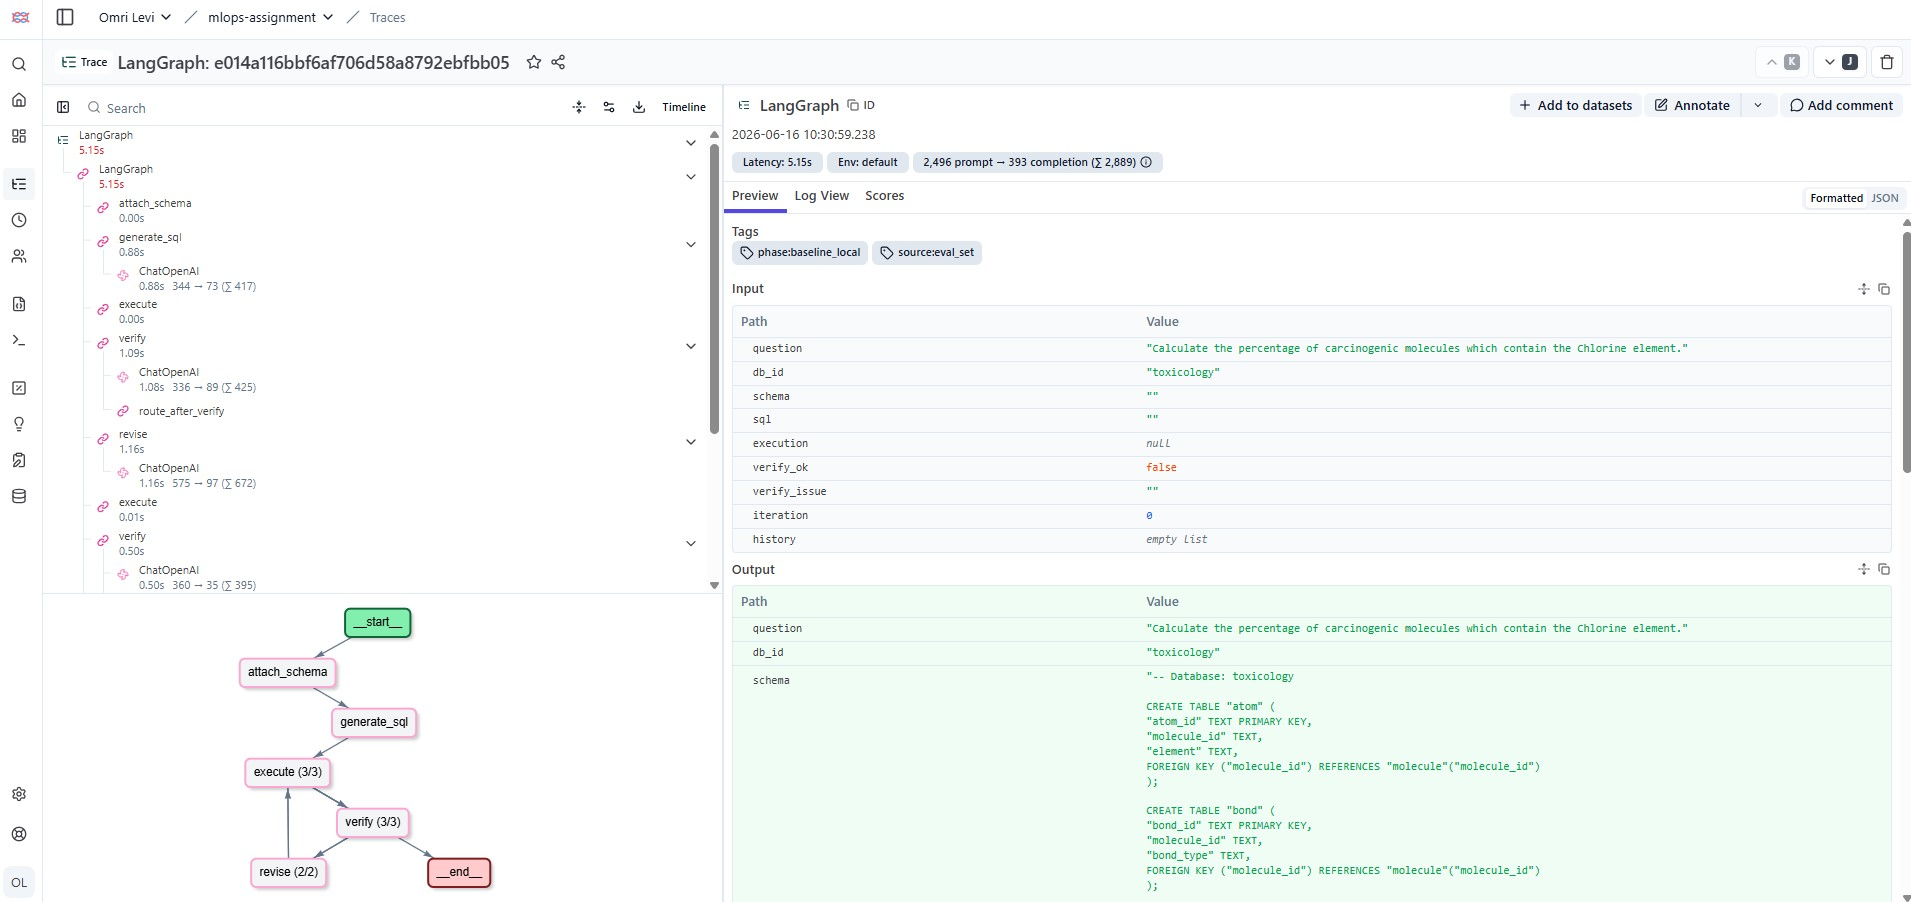
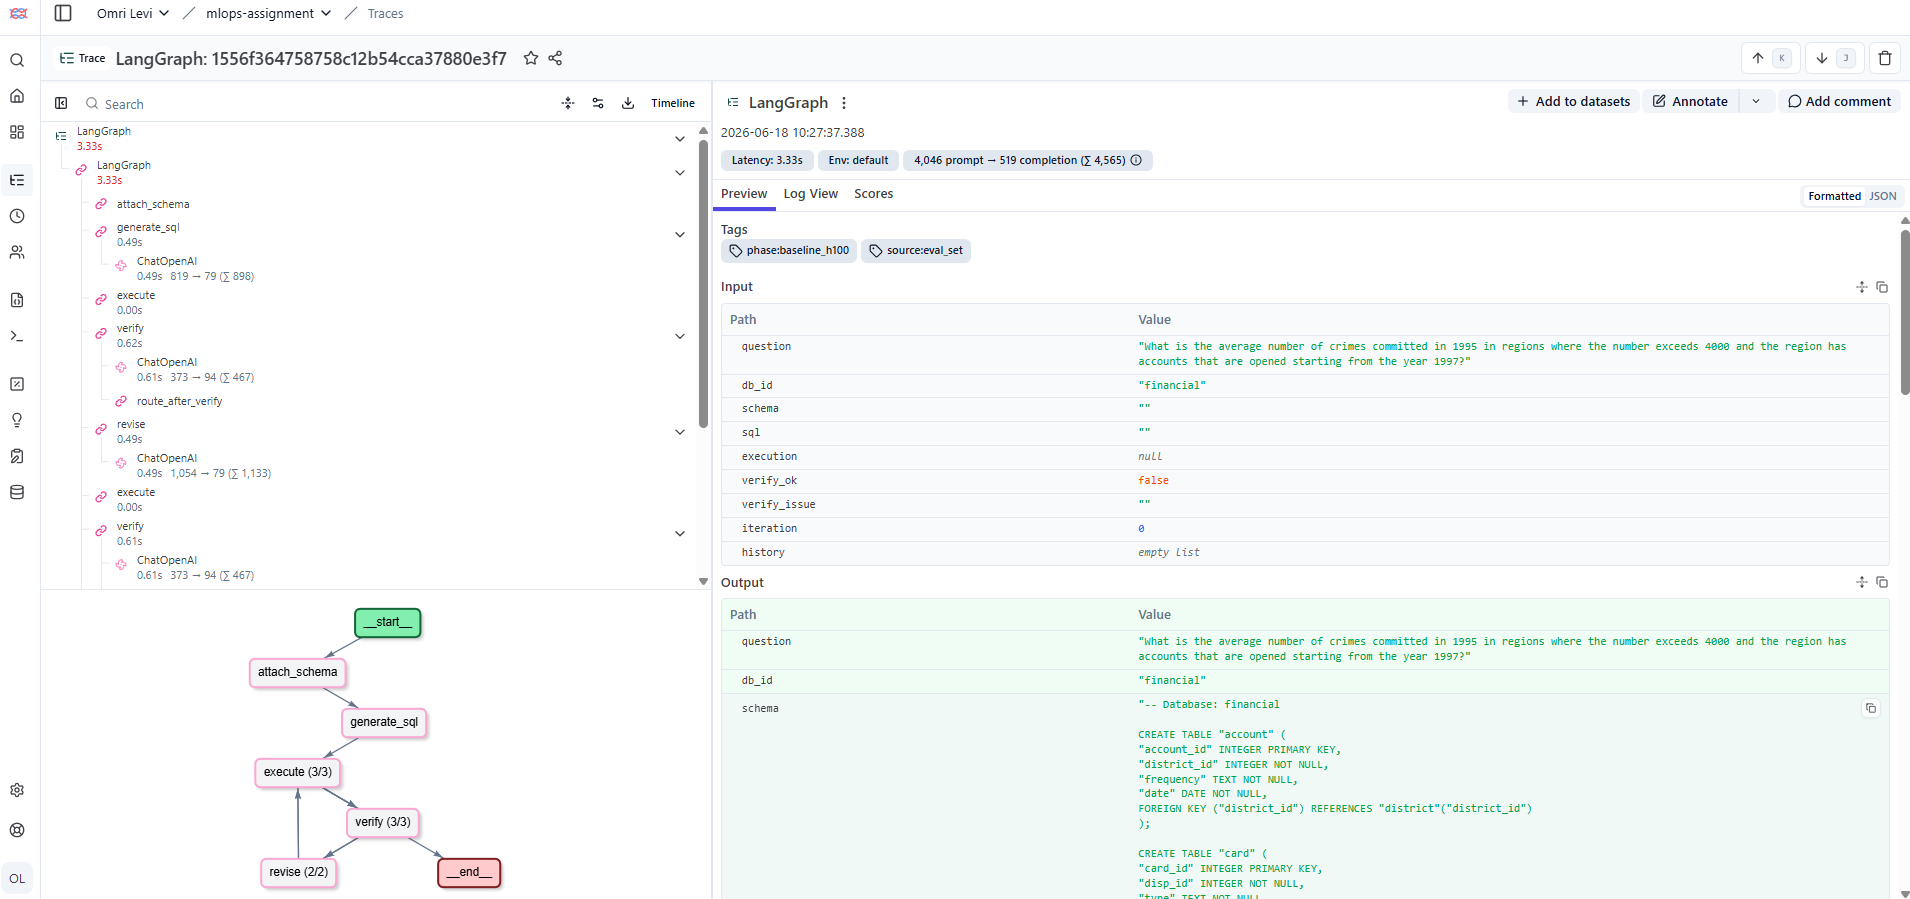
update report + add all relevant results and screenshots

diff --git a/report.md b/report.md
@@ -2,29 +2,26 @@
 
 ---
 
-## Phase 1 — Serving Configuration
+## Phase 1 - Serving Configuration
 
 **Local development:** Nebius Token Factory API (OpenAI-compatible endpoint)
 using `Qwen/Qwen3-30B-A3B-Instruct-2507` as a hosted backend.
+
 **Production target:** vLLM on 1× H100 80GB.
 
-### vLLM flags (H100 configuration — `scripts/start_vllm.sh`)
+### Initial vLLM flags (H100 configuration — `scripts/start_vllm.sh`)
 
-| Flag | Value | Reason |
+| Flag | Value | Reason(s) |
 |---|---|---|
-| `--dtype` | `bfloat16` | H100 native format; no quality loss vs fp32 for SQL generation |
-| `--max-model-len` | `8192` | Prompts are 1.5–3K tokens (schema + question); capping context frees KV cache headroom for concurrency |
-| `--gpu-memory-utilization` | `0.92` | Leaves ~6GB headroom for model weights; gives KV cache maximum VRAM |
-| `--max-num-seqs` | `64` | Qwen3-30B-A3B is MoE (~3B active params per forward pass); compute per token is low so higher concurrency is affordable vs a dense 30B |
-| `--enable-prefix-caching` | on | Every query against the same DB shares an identical schema preamble — avoids re-prefilling those tokens on each request |
-| `--enable-chunked-prefill` | on | Prevents long schema prefills from blocking decode steps of concurrent requests |
-| `--trust-remote-code` | on | Required for Qwen3 MoE architecture |
-| `--disable-log-requests` | on | Removes per-request stdout overhead under load |
+| `--dtype` | `bfloat16` | Model weights are released in bfloat16. Loading in the same dtype avoids any precision conversion. In addition, H100 has native bfloat16 tensor cores. Using fp32 would double weight memory with no quality benefit since the weights were never fp32 to begin with. |
+| `--max-model-len` | `8192` | This flag rules the model context length (prompts + output). We assume (by experiment) that our prompt + output will not exceed this length. Capping context frees KV cache headroom for concurrency. |
+| `--gpu-memory-utilization` | `0.92` | Leaves ~6GB headroom for model weights; gives KV cache maximum VRAM.<br>Higher value would give more KV cache blocks and therefore higher throughput. Lower value would give less KV cache blocks which reduces throughput. |
+| `--max-num-seqs` | `64` | Initial value of 64 chosen as a conservative starting point for H100; MoE architecture reduces per-token compute cost, suggesting higher concurrency is viable. If KV cache is not fully utilized, this value can be increased. |
+| `--enable-prefix-caching` | on | Every query against the same DB shares an identical schema preamble, therefore avoid re-prefilling those tokens on each request. Should drop TTFT since the schema is already cached. |
+| `--enable-chunked-prefill` | on | Prevents long schema prefills from blocking decode steps of concurrent requests. Should prevent spikes in TPOT for all concurrent requests whenever a new one arrives. TTFT can be slightly higher. |
+| `--trust-remote-code` | on | Required for Qwen3 from HuggingFace |
+| `--disable-log-requests` | on | Removes per-request stdout overhead under load. Otherwise adds latency and CPU overhead. |
 
-**Note:** Flags were chosen based on workload analysis (MoE architecture,
-1.5–3K token prompts, short structured outputs, 2–3 sequential LLM calls per
-request) but could not be validated locally without GPU hardware. They will be
-exercised and iterated on during Phase 6 load testing on the real H100 endpoint.
 
 ### Manual query results (5 questions from `evals/eval_set.jsonl`)
 
@@ -33,11 +30,11 @@ statements directly from the SQLite files.
 
 | # | Question | DB | Outcome | Notes |
 |---|---|---|---|---|
-| 1 | Australian GP coordinates | formula_1 | ✅ Near-correct | Missing `DISTINCT` → 11 duplicate rows instead of 1 |
-| 2 | Ajax superpowers | superhero | ✅ Correct | 5 rows returned, matches gold |
-| 3 | Top 5 schools by enrollment | california_schools | ✅ Correct | Correct JOIN and ORDER BY |
-| 4 | Average crimes 1995 | financial | ❌ Wrong | Used `A14` instead of `A15` → returned NULL |
-| 5 | Male clients in Praha | financial | ❌ Wrong | Used lowercase `'m'` instead of `'M'` → returned 0 instead of 339 |
+| 1 | Australian GP coordinates | formula_1 | Near-correct | Missing `DISTINCT` → 11 duplicate rows instead of 1 |
+| 2 | Ajax superpowers | superhero | Correct | 5 rows returned, matches gold |
+| 3 | Top 5 schools by enrollment | california_schools | Correct | Correct JOIN and ORDER BY |
+| 4 | Average crimes 1995 | financial | Wrong | Used `A14` instead of `A15` → returned NULL |
+| 5 | Male clients in Praha | financial | Wrong | Used lowercase `'m'` instead of `'M'` → returned 0 instead of 339 |
 
 **Key observations:**
 
@@ -50,80 +47,177 @@ worth noting:
   0 when rows clearly exist. Zero rows on a counting question is a strong signal
   for the verifier to trigger a revise.
 - **Duplicate rows (Q1):** missing `DISTINCT` returns 11 identical coordinate
-  pairs. Also detectable — 11 rows all identical is suspicious for a coordinates
+  pairs. Also detectable since 11 rows all identical is suspicious for a coordinates
   lookup.
 
 All three failure modes are detectable signals the verify node can act on,
 which directly motivates the agent loop in Phase 3.
 
-### Screenshot - TBD
+### Screenshot - vllm manual query example
+![vllm_manual_query.png](screenshots/vllm_manual_query.png)
+
 
 ---
 
 ## Phase 2: Observability Dashboard
 
-The dashboard is organized around three questions a person on call needs to answer immediately:
-**Is the system slow? Is it keeping up? Is memory OK?**
-
----
-
-### Metric types and PromQL patterns
-
-vLLM exposes three metric types, each requiring a different PromQL treatment:
-
-- **Gauge**: a live snapshot value (e.g. queue depth). Read directly, no transformation.
-- **Counter**: monotonically increasing total (e.g. requests served). Wrap in `rate(metric[1m])` to get a per-second rate.
-- **Histogram**: records a distribution across buckets (e.g. latency). Use `histogram_quantile(0.95, rate(metric_bucket[5m]))` to get a percentile. Latency panels use a longer `[5m]` window than throughput panels (`[1m]`) because percentile estimates need more samples to be statistically stable.
+The dashboard is organized around three questions a person on call needs to answer immediately:<br>
+**1. Is the system slow?**<br>
+**2. Is it keeping up?** <br>
+**3. Is memory OK?**<br>
 
 ---
 
 ### Why these specific metrics
 
-#### Latency
+#### Latency (or "Is it slow?")
 
-Three panels: E2E latency (P50/P95/P99), TTFT, TPOT.
+Three panels: E2E latency (P50/P95/P99), TTFT, TPOT. E2E here is **per-LLM-call** as seen by vLLM, not full agent latency - the SLO spans 2–3 of these calls sequentially.
 
-E2E latency is the SLO metric. TTFT (time to first token) and TPOT (time per output token) decompose *where* that time goes: 
 - E2E ≈ TTFT + (output_tokens × TPOT). 
-- TTFT measures prefill cost and queue wait. 
-- TPOT measures decode speed.
+- TTFT (time to first token) captures prefill cost and queue wait. 
+- TPOT (time per output token) captures decode speed. 
 
-Together they answer not just "is it slow" but "slow *where*", which is what makes the dashboard useful for diagnosis, not just alerting.
+When E2E is high: 
+- if TTFT high → requests are queuing or prefill is slow, check queue depth. 
+- if TPOT high → decode batch is too large, check requests running; 
+- if P99 spikes with P95 fine → check preemption rate.
 
-#### Throughput
+#### Throughput (or "Is it keeping up?")
 
 Four panels: requests running, generated tokens/sec, request throughput (req/s), queue depth.
 
-- Queue depth (`num_requests_waiting`) is the most actionable single metric: if it grows, the system is overloaded, full stop. 
-- Request throughput gives the achieved RPS to compare against the load test target.
 - Requests running and generated tokens/sec give context on what the system is actually doing at that moment.
+- Queue depth (`num_requests_waiting`) is the most actionable metric: if it grows, arrival rate exceeds serving rate. Check whether the ceiling is compute (TPOT rising) or the scheduler cap (`--max-num-seqs`). 
+- Request throughput gives achieved RPS to compare against the load test target.
 
-#### KV Cache
+#### KV Cache (or "Is memory OK?")
 
 Two panels: GPU KV cache usage (%), preemption rate.
 
-- KV cache usage shows headroom or how close the system is to the ceiling. 
-- Preemption rate is the alarm: it becomes nonzero only when the cache already ran out and vLLM is paying the cost by evicting and recomputing sequences. Each preemption shows up as a P99 spike in the E2E latency panel, which is why these two sections are connected.
+- KV cache usage shows available headroom. If cache approaches 100%: reduce `--max-num-seqs` or `--max-model-len`.
+- Preemption rate is the alarm: nonzero means the cache ran out and vLLM is evicting and recomputing sequences, which shows up directly as P99 spikes in the latency panel.
 
 ---
 
-### Reading the dashboards: Debugging workflow
+### Screenshot - grafana serving
 
-Start at the top of the dashboard and go down.
-
-**E2E latency is high →**
-- TTFT high, TPOT normal → bottleneck is before decoding: requests are queuing or prefill is slow. Check queue depth.
-- TPOT high, TTFT normal → bottleneck is during decoding: too many sequences decoded simultaneously, memory bandwidth saturated. Check requests running.
-- P95 fine but P99 spikes intermittently → check preemption rate: cache evictions cause occasional stalls.
-
-**Queue depth is growing →**
-Arrival rate exceeds serving rate. Either the model is too slow per request (TPOT) or the concurrency limit (`--max-num-seqs`) is the ceiling. Check KV cache: if it's near 100%, that's what's preventing vLLM from starting new requests.
-
-**KV cache near 100% or preemptions nonzero →**
-Cache pressure. Fix: reduce `--max-num-seqs` (fewer concurrent sequences) or reduce `--max-model-len` (smaller KV blocks per token). Preemptions are more urgent than just queuing because they waste GPU compute and cause latency spikes.
+Full dashboard reacting to a burst of requests on H100.
+![grafana_serving.png](screenshots/grafana_serving.png)
 
 ---
 
-### Screenshots - TBD
+## Phase 3 — Agent
 
-- `screenshots/grafana_serving.png` — full dashboard reacting to a burst of requests *(H100)*
+The agent implements a generate → execute → verify → (revise) loop using LangGraph. The graph has four nodes:
+
+- **generate_sql**: given the schema and question, produces an initial SQL query (vLLM call #1)
+- **execute**: runs the SQL against the SQLite DB and returns rows or an error (provided)
+- **verify**: given the question, SQL, and result, decides whether the result plausibly answers the question and if not, describes the specific problem (vLLM call #2)
+- **revise**: given the identified problem, the original SQL, the result, and the schema, surgically fixes the failing fragment (vLLM call #3, only when verify returns ok=false)
+
+The loop is capped at 3 total iterations. `route_after_verify` returns `"revise"` when verify outputs `ok=false` and the iteration count is below the cap, and `"end"` otherwise.
+
+By setting max iterations to 3, the maximum number of vLLM calls per question can be 6 (1: generate + verify, 2: revise + verify, 3: revise + verify).
+
+---
+
+## Phase 4 — Agent Observability
+
+Langfuse wired via `langfuse.langchain.CallbackHandler` passed as a callback on each `graph.invoke`. Each agent run produces a root trace with nested spans for `generate_sql`, `verify`, and `revise` (when triggered), each showing prompt, response, latency, and token counts. Traces tagged with `phase` and `source` keys for filtering by experiment.
+
+#### Screenshots - langfuse
+- langfuse trace: shows a single agent run with a revise iteration triggered by verify<br>
+![langfuse_trace.png](screenshots/langfuse_trace.png) 
+- langfuse tags: shows filtering by `phase=baseline` and `source=agent` to analyze only the agent runs from the baseline experiment.
+![langfuse_tags.png](screenshots/langfuse_tags.png)
+
+---
+
+## Phase 5 — Evals
+
+Execution accuracy: compare canonicalized row sets (sorted, stringified) from agent SQL vs gold SQL. Per-iteration pass rate uses carry-forward, i.e. if agent stopped at iteration j, that result fills all later slots.
+
+### Baseline results (`results/eval_baseline.json`)
+
+| Metric | Value |
+|---|---|
+| iter_1 pass rate | 26.67% |
+| iter_2 pass rate | 30.00% |
+| iter_3 pass rate (overall) | **30.00%** |
+| Revise triggered | 11/30 (36.67%) |
+| Avg iterations | 1.63 |
+
+The revise loop recovered 3.33% (iter_1 26.67% → iter_3 30%), meaning the loop is doing real work.
+
+#### Screenshot - grafana dashboard during baseline eval
+![grafana_eval_run.png](screenshots/grafana_eval_run.png)
+
+---
+
+## Phase 6 — SLO
+
+**Target: P95 end-to-end agent latency < 5 seconds at 10+ RPS sustained over 5 minutes.**
+
+### Iteration log
+
+| Version | Changed | <div style="width:200px">Saw<br>(After change)</div> | Hypothesized<br>(why? + what to change?) | Targeted metric | E2E followed? | Keep the change? |
+|---|---|---|---|---|---|---|
+| **V0** baseline | — | **Timeout rate: 54% ❌**<br>single call:<br>E2E p95: ~3.6s <br>TTFT p95: 215ms<br>TPOT p95: 55ms<br>Requests running: up to 25<br>Queue: 0<br>KV cache: 0-30% | Server capacity is limited, vLLM is idle, need to increase number of workers. | Reduce timeouts rate to ~0% | 116s |  |
+| **V1** | workers 1→32 | Timeouts rate - 0.8% ✅<br>single call:<br>E2E p95: ~8.5s ❌<br>TTFT p95: ~4.8s ❌<br>TPOT p95: 70ms<br>Requests running: up to 64<br>**Queue: 0→120→0** ❌<br>KV cache: 0-48% | Queue is now the bottleneck (requests waiting). Reducing `max-model-len` should make more space to fit more requests. | Reduce queue depth (requests waitings). | ✅ 116→88s | Yes |
+| **V2** | max-model-len 8192→4096 | single call:<br>E2E p95: ~5.5s ⬇️<br>TTFT p95: ~2.4s ⬇️<br>TPOT p95: 70ms<br>Requests running: up to 64<br>Queue: 0→66→0 ⬇️<br>KV cache: 0-25%⬇️ | Freeing KV blocks improves throughput as well as TTFT (cut by half). TTFT is still high, trying to quantize the model to 8-bit could help to make faster calculations -> prefill and decode. | Cut TTFT by half | ✅ 88s→34s | Yes |
+| **V3** | +fp8 quantization | single call:<br>E2E p95: 8-10s ⬆️❌<br>TTFT p95: ~2.5-5s ⬆️❌<br>TPOT p95: 70ms<br>Requests running: up to 64<br>**Queue: 0→111→0**⬆️ ❌<br>KV cache: 0-48%⬆️ | TTFT worsened to 5s, queue 66→111, we didn't address the correct issue ❌<br>The right flag to decrease the queue depth which will lead to lower TTFT is increasing `max-num-seqs` | Reduce queue depth to 0 (no waiting requests) | ❌ 34s→44.5s | No |
+| **V4** | max-num-seqs 64→128 | single call:<br>E2E p95: 4.5s ⬇️<br>TTFT p95: 100-200ms ⬇️<br>TPOT p95: 70ms<br>Requests running: up to 81<br>**Queue: 0**⬇️<br>KV cache: 0-25%⬇️ | doubling scheduler slots drains queue; KV headroom exists | TTFT 2.4s→100ms-200ms ✅, queue→0 ✅ | ✅ 34s→19.8s | Yes |
+
+### Final configuration
+
+```bash
+--dtype bfloat16
+--max-model-len 4096        # V2: frees KV cache per slot
+--gpu-memory-utilization 0.92
+--max-num-seqs 128          # V4: doubled from 64, queue eliminated
+--enable-chunked-prefill
+--enable-prefix-caching
+--trust-remote-code
+--disable-log-requests
+```
+
+also added --workers 32 to server call:
+
+`uv run uvicorn agent.server:app --host 0.0.0.0 --port 8001 --workers 32`
+
+### Screenshots - grafana dashboards before (V1) and after (V4) tuning
+I add here below grafana screenshots for the "before" and "after" tuning phases. We refer to V1 as "before" since it's the first configuration that can handle the load without timeouts, and V4 as "after" since it's the final configuration I had time to implement with the best latency results.
+| Before (V1) | After (V4) |
+|---|---|
+| ![grafana_before.png](screenshots/grafana_before.png) | ![grafana_after.png](screenshots/grafana_after.png) |
+
+### SLO Honest verdict
+
+**SLO missed.** Best achieved: agent P95=19.8s vs 5s target at 10 RPS.
+
+vLLM is in a healthy state in the final configuration: queue=0, TTFT p95=160ms-200ms, no preemptions. The gap is in per-call decode latency. Breaking down a single LLM call at p95: TTFT accounts for 160ms and decode accounts for 62 output tokens × 70ms TPOT = 4.34s — totaling ~4.5s per call. Most of the per-call latency is in the decode phase.
+
+With 2 sequential calls per agent on the common path (generate + verify), the minimum agent E2E at p95 is 2 × 4.5s = 9s — already 1.8× the SLO before any overhead. To close the gap on the 2-call path, TPOT would need to fall from ~70ms to ~38ms per token.
+
+---
+
+## Phase 7 — Agent Value and Next Steps
+
+### Did the agent loop help?
+
+Yes. The per-iteration pass rate at baseline shows iter_1=26.67% rising to iter_3=30.00%, so the revise loop recovered 3.33% points. 11 of 30 questions (37%) triggered at least one revise call, and 1 in 3 of those recovered a correct answer. The loop is earning its keep on the failure modes it was designed for. After load tuning, quality improved further to 33.33% overall (iter_1=30%, iter_3=33.33%), confirming that the latency optimizations did not regress correctness:
+
+| Metric | Baseline | After tuning |
+|---|---|---|
+| iter_1 pass rate | 26.67% | 30.00% |
+| iter_2 pass rate | 30.00% | 33.33% |
+| iter_3 pass rate (overall) | 30.00% | 33.33% |
+| Revise triggered | 11/30 (36.67%) | 11/30 (36.67%) |
+| Avg iterations | 1.63 | 1.63 |
+
+### What I'd do with more time
+
+1. **KV cache quantization** - `--kv-cache-dtype fp8` quantizes the KV cache (separate from weight quantization, so no MoE routing overhead). Decode on H100 is memory-bandwidth-bound: each decode step reads the full KV cache for every active token. Halving the KV cache size per token halves that bandwidth pressure, which directly reduces TPOT. This is the most targeted lever available against the 70ms/token bottleneck, without touching model weights or accuracy.
+
+2. **Schema summarization** - schema prompts for wide tables can exceed max-model-len. A lightweight pre-processing step that filters the schema to only tables and columns relevant to the question (heuristic) would eliminate those truncation failures and reduce prompt length, cutting TTFT for every request.